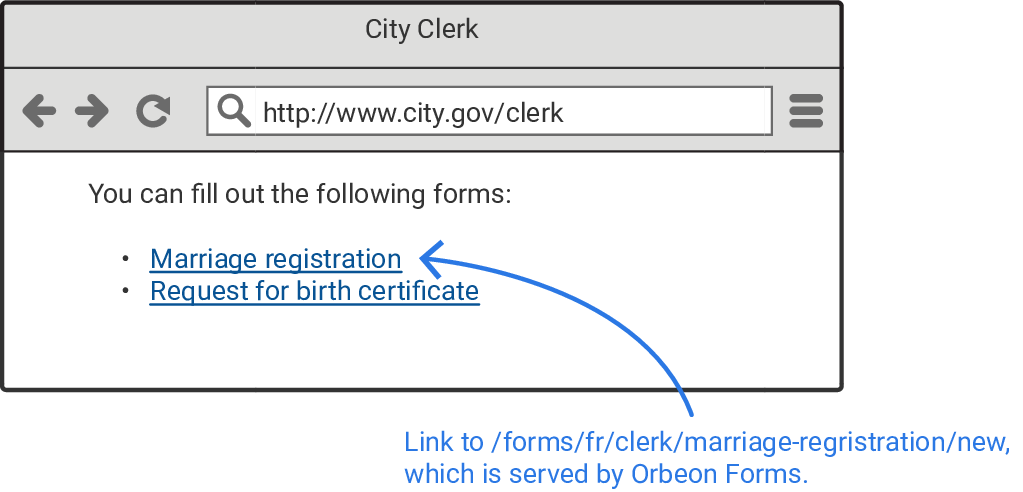
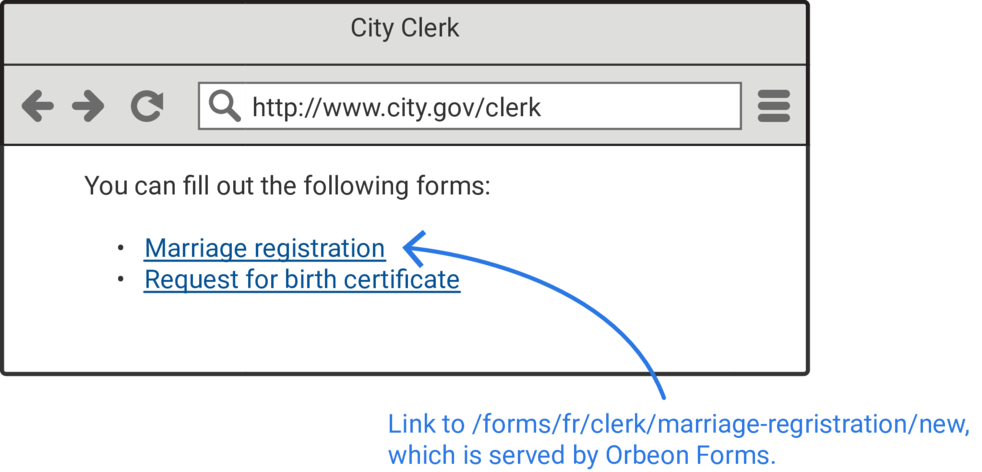
2x images

diff --git a/form-runner/link-embed/linking.md b/form-runner/link-embed/linking.md
@@ -10,7 +10,7 @@ When you publish the form, assuming you have Orbeon Forms deployed on a server o
 
 In a typical deployment, users will access this page from another part of your web site or web application that contains a link to form served by Orbeon Forms. For instance, a city government might have on its web site a page listing forms citizen can fill out, which links to the marriage registration form on `http://www.city.gov/forms/fr/clerk/marriage-registration/new`.
 
-<object data="../images/linking-page-with-link.pdf" width="491"></object>
+<img alt="Page on your web site/app linking to a form" src="../images/linking-page-with-link.png" width="491">
 
 ## Technology agnostic
 
